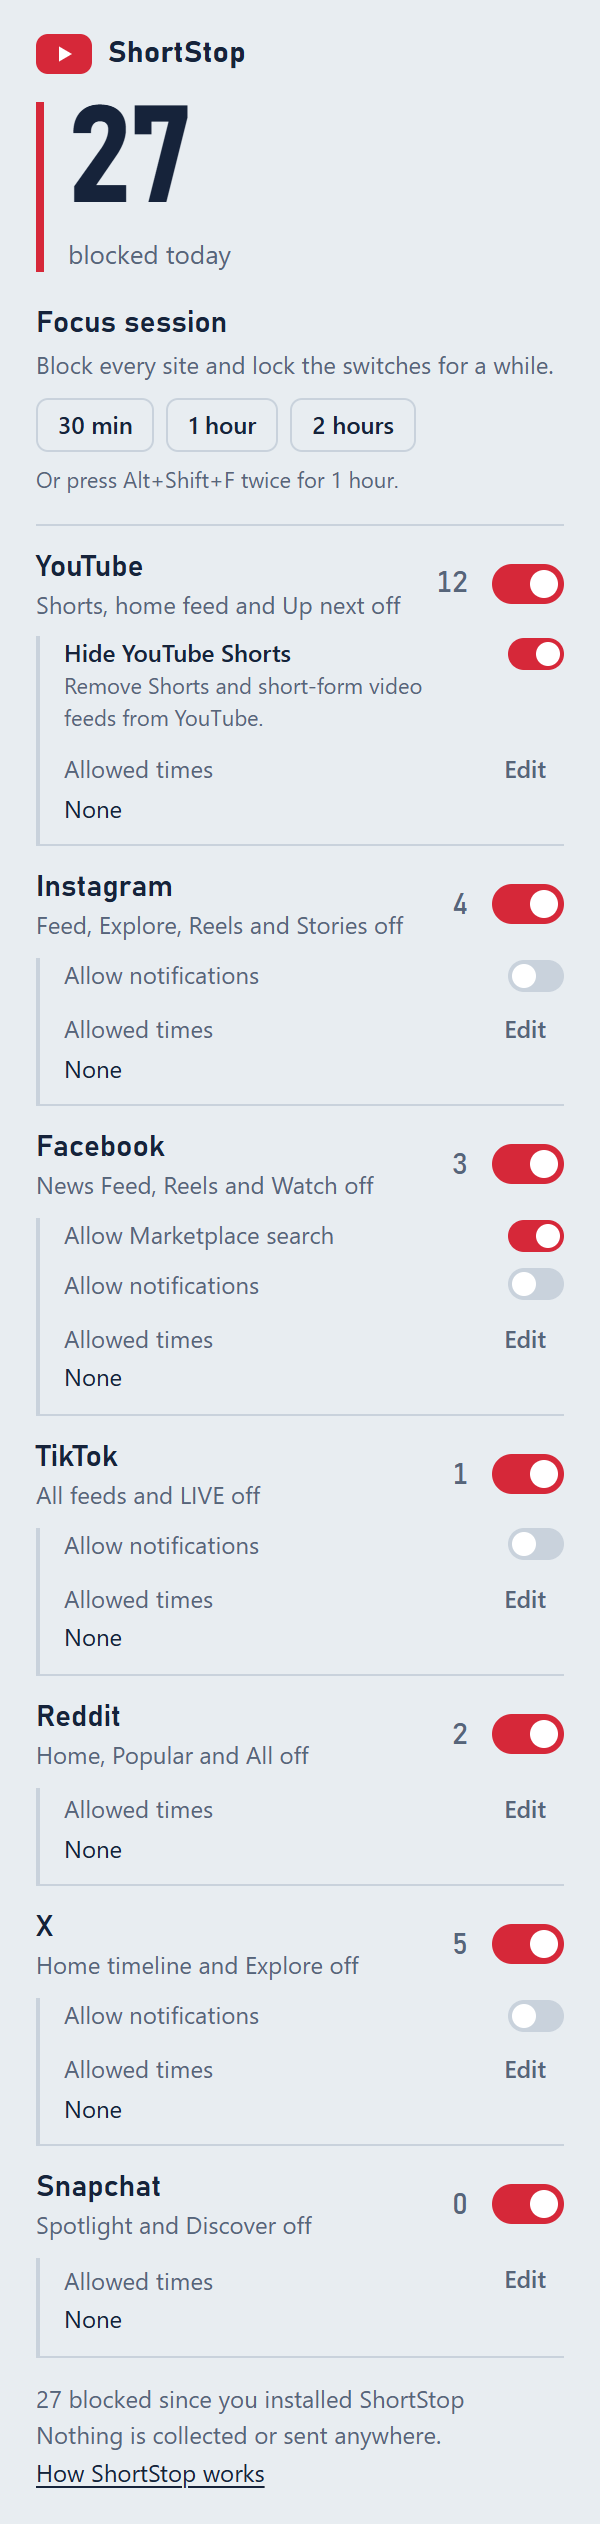
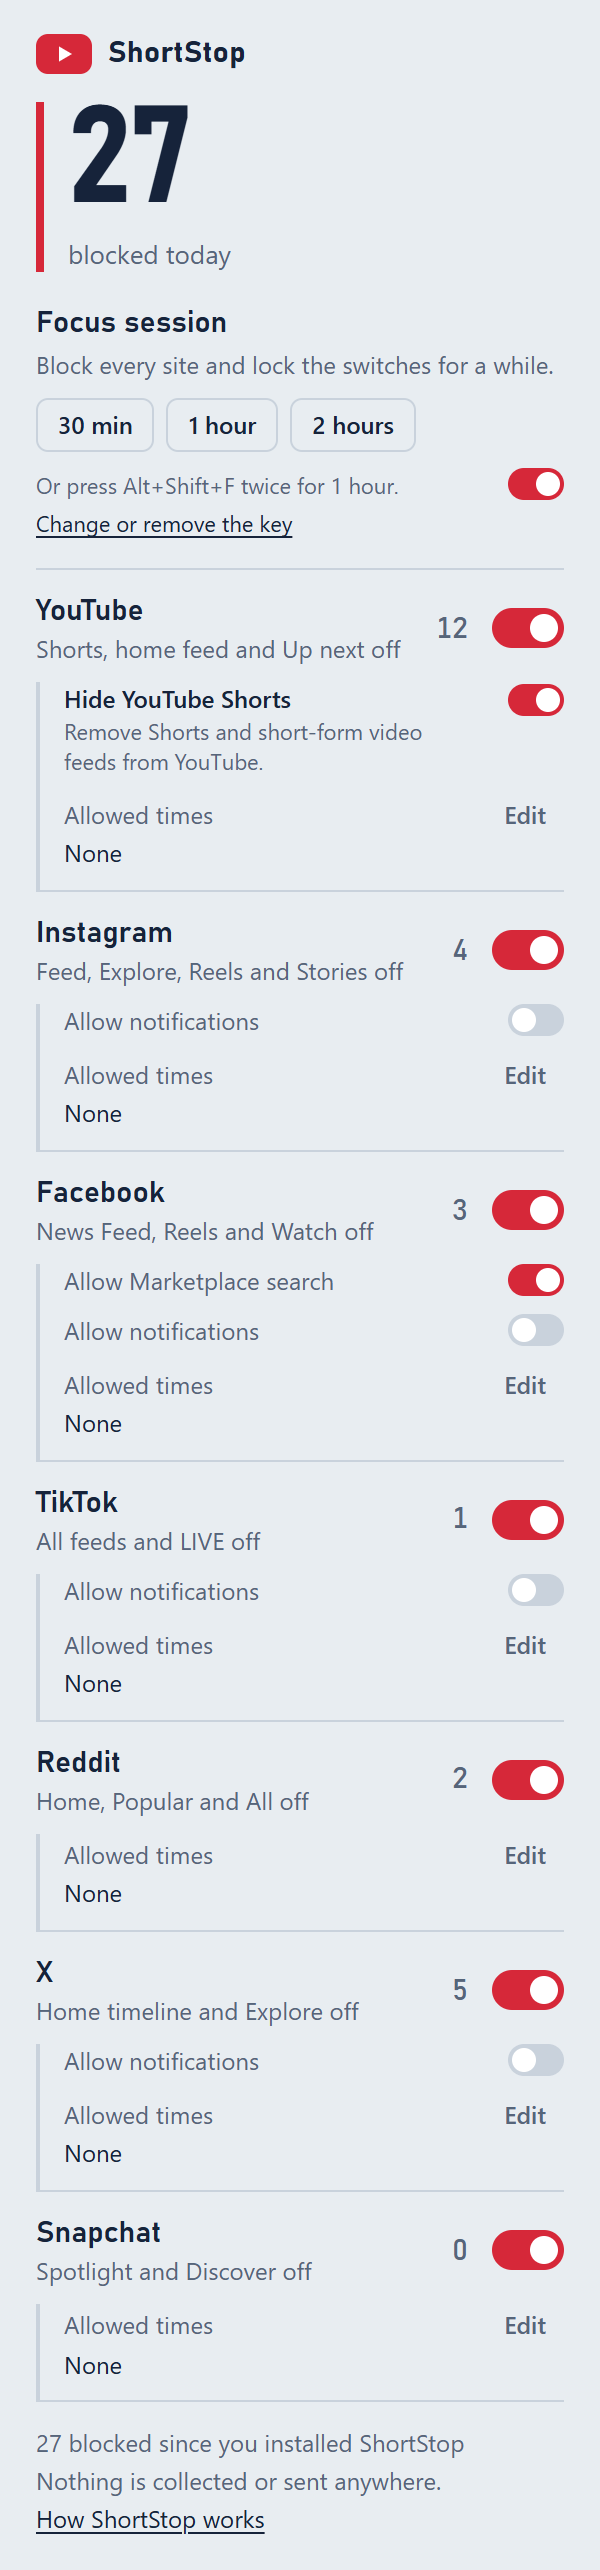
feat: add focus shortcut toggle functionality and update related documentation

diff --git a/tests/fixtures/popup.html b/tests/fixtures/popup.html
@@ -27,6 +27,7 @@
           },
         };
         const listeners = [];
+        const opened = []; // Pages the popup asked the browser to open.
         const copy = (value) => (value === undefined ? undefined : JSON.parse(JSON.stringify(value)));
         const area = (name) => ({
           get(keys) {
@@ -52,6 +53,7 @@
           storage: { sync: area('sync'), local: area('local'), onChanged: { addListener: (fn) => listeners.push(fn) } },
           runtime: {},
           commands: { getAll: () => Promise.resolve([{ name: 'start-focus-session', shortcut: 'Alt+Shift+F' }]) },
+          tabs: { create: (options) => (opened.push(options.url), Promise.resolve({})) },
         };
 
         try {
@@ -259,6 +261,54 @@
             shown($('#focus-hint')) && $('#focus-hint').textContent === 'Or press Alt+Shift+F twice for 1 hour.',
             $('#focus-hint').textContent
           );
+
+          /* ---- The keyboard shortcut: switch it off, or change the key in the browser ---- */
+          const shortcutSwitch = $('#option-focus-shortcut');
+          const shortcutLink = $('#focus-shortcut-link');
+          check('shortcut: the switch is shown, on by default', shown(shortcutSwitch) && shortcutSwitch.checked);
+          check('shortcut: the switch is named after the key', shortcutSwitch.getAttribute('aria-label') === 'Keyboard shortcut Alt+Shift+F');
+          check(
+            'shortcut: offers to change or remove the key in the browser',
+            shown(shortcutLink) && shortcutLink.textContent === 'Change or remove the key',
+            shortcutLink.textContent
+          );
+          shortcutSwitch.click();
+          await step();
+          check('shortcut: switching it off is saved', stores.sync.settings.focusShortcut === false, JSON.stringify(stores.sync.settings.focusShortcut));
+          check(
+            'shortcut: the line says it is off',
+            !shortcutSwitch.checked && $('#focus-hint').textContent === 'The Alt+Shift+F shortcut is off.',
+            $('#focus-hint').textContent
+          );
+          check('shortcut: the focus buttons still work while it is off', shown($('#focus-choices')));
+          shortcutSwitch.click();
+          await step();
+          check(
+            'shortcut: switching it back on is saved',
+            stores.sync.settings.focusShortcut === true && shortcutSwitch.checked && $('#focus-hint').textContent === 'Or press Alt+Shift+F twice for 1 hour.',
+            $('#focus-hint').textContent
+          );
+          shortcutLink.click();
+          await step();
+          check(
+            'shortcut: the link opens the browser shortcut settings',
+            opened.length === 1 && /^(chrome|edge|brave):\/\/extensions\/shortcuts$/.test(opened[0]),
+            JSON.stringify(opened)
+          );
+          const line = (extra) => globalThis.describeShortcut({ known: true, key: 'Alt+Shift+F', enabled: true, hasSettingsPage: true, ...extra });
+          check('shortcut: nothing shows until the browser has answered', globalThis.describeShortcut({ known: false, key: '', enabled: true, hasSettingsPage: true }).hidden === true);
+          check(
+            'shortcut: no key set says so and offers to set one',
+            line({ key: '' }).text === 'No keyboard shortcut is set.' && !line({ key: '' }).showSwitch && line({ key: '' }).link === 'Set a key',
+            JSON.stringify(line({ key: '' }))
+          );
+          check(
+            'shortcut: Firefox gets instructions instead of a link',
+            /Manage Extension Shortcuts/.test(line({ key: '', hasSettingsPage: false }).text) && line({ key: '', hasSettingsPage: false }).link === '' && line({ hasSettingsPage: false }).link === '',
+            JSON.stringify(line({ key: '', hasSettingsPage: false }))
+          );
+          check('shortcut: a custom key is named as the browser reports it', line({ key: 'Ctrl+Shift+K' }).text === 'Or press Ctrl+Shift+K twice for 1 hour.');
+
           $('[data-focus-minutes="60"]').click();
           await step();
           check('focus: picking a length asks first', shown($('#focus-confirm')) && !shown($('#focus-choices')) && focusText().includes('for 1 hour'), focusText());

diff --git a/extension/popup/popup.js b/extension/popup/popup.js
@@ -525,6 +525,39 @@ function tick() {
 
 let focusChoice = 0; // Minutes picked and waiting for "Start", or 0.
 let focusShortcut = ''; // The keyboard shortcut for a 1-hour session, if one is set.
+let shortcutKnown = false; // The browser has told us whether a shortcut is set.
+
+// The browser's own page for changing or removing extension shortcuts. Extensions
+// can't clear a shortcut themselves, so the popup links there. Firefox won't
+// open its own pages for an extension, so it gets instructions instead.
+function shortcutSettingsUrl() {
+  const agent = navigator.userAgent;
+  if (agent.includes('Firefox/')) return '';
+  const scheme = agent.includes('Edg/') ? 'edge' : navigator.brave ? 'brave' : 'chrome';
+  return `${scheme}://extensions/shortcuts`;
+}
+
+// What the shortcut line under the focus buttons shows. Pure, so the test page
+// can try every case: unknown, no key set, key set and on, key set and off.
+function describeShortcut({ known, key, enabled, hasSettingsPage }) {
+  if (!known) return { hidden: true };
+  if (!key) {
+    return {
+      hidden: false,
+      text: hasSettingsPage
+        ? 'No keyboard shortcut is set.'
+        : 'No keyboard shortcut is set. In Add-ons, use the gear, then Manage Extension Shortcuts.',
+      showSwitch: false,
+      link: hasSettingsPage ? 'Set a key' : '',
+    };
+  }
+  return {
+    hidden: false,
+    text: enabled ? `Or press ${key} twice for 1 hour.` : `The ${key} shortcut is off.`,
+    showSwitch: true,
+    link: hasSettingsPage ? 'Change or remove the key' : '',
+  };
+}
 
 function inFocus(now) {
   return (Number(state.settings.focusUntil) || 0) > now;
@@ -564,9 +597,32 @@ function renderFocus(now) {
   setText(document.getElementById('focus-text'), text);
   document.getElementById('focus-choices').hidden = active || Boolean(focusChoice);
   document.getElementById('focus-confirm').hidden = active || !focusChoice;
-  const hint = document.getElementById('focus-hint');
-  hint.hidden = active || Boolean(focusChoice) || !focusShortcut;
-  setText(hint, focusShortcut ? `Or press ${focusShortcut} twice for 1 hour.` : '');
+  renderShortcut(active || Boolean(focusChoice));
+}
+
+function renderShortcut(busy) {
+  const line = describeShortcut({
+    known: shortcutKnown,
+    key: focusShortcut,
+    enabled: state.settings.focusShortcut !== false,
+    hasSettingsPage: Boolean(shortcutSettingsUrl()),
+  });
+  // Out of the way while a session runs or a length is being confirmed.
+  document.getElementById('focus-shortcut').hidden = busy || line.hidden;
+  if (line.hidden) return;
+  setText(document.getElementById('focus-hint'), line.text);
+  const toggle = document.getElementById('option-focus-shortcut');
+  toggle.hidden = !line.showSwitch;
+  toggle.setAttribute('aria-label', `Keyboard shortcut ${focusShortcut}`);
+  const link = document.getElementById('focus-shortcut-link');
+  link.hidden = !line.link;
+  setText(link, line.link);
+}
+
+function openShortcutSettings(event) {
+  event.preventDefault();
+  const url = shortcutSettingsUrl();
+  if (url && chrome.tabs && chrome.tabs.create) chrome.tabs.create({ url }).catch(() => {});
 }
 
 function initFocus() {
@@ -578,6 +634,7 @@ function initFocus() {
       .then((commands) => {
         const command = commands.find((entry) => entry.name === 'start-focus-session');
         focusShortcut = (command && command.shortcut) || '';
+        shortcutKnown = true;
         render();
       })
       .catch(() => {});
@@ -589,6 +646,7 @@ function initFocus() {
       document.getElementById('focus-start').focus();
     });
   }
+  document.getElementById('focus-shortcut-link').addEventListener('click', openShortcutSettings);
   document.getElementById('focus-start').addEventListener('click', () => startFocus(focusChoice));
   document.getElementById('focus-cancel').addEventListener('click', () => {
     focusChoice = 0;

diff --git a/tests/fixtures/background.html b/tests/fixtures/background.html
@@ -88,6 +88,32 @@
           await wait(3300);
           await press('some-other-command');
           check('another command does nothing', !focusUntil() && badge.text === '', badge.text);
+
+          /* ---- Switched off in the popup (the focusShortcut setting) ---- */
+          await press('start-focus-session'); // Arms it: "1h?".
+          check('before switching off: the first press asks "1h?"', badge.text === '1h?' && !focusUntil(), badge.text);
+          stores.sync.settings.focusShortcut = false;
+          await press('start-focus-session');
+          check('switched off: the second press starts nothing', !focusUntil(), String(focusUntil()));
+          await wait(5300); // The "1h?" clears by itself.
+          await press('start-focus-session');
+          await press('start-focus-session');
+          check('switched off: presses show nothing and start nothing', badge.text === '' && !focusUntil(), badge.text);
+          stores.sync.settings.focusUntil = Date.now() + 42 * 60 * 1000;
+          await press('start-focus-session');
+          check('switched off: a press during a session shows nothing either', badge.text === '', badge.text);
+          stores.sync.settings.focusUntil = 0;
+
+          stores.sync.settings.focusShortcut = true;
+          await press('start-focus-session');
+          check(
+            'switched back on: it asks again, and the old "1h?" cannot start a session',
+            badge.text === '1h?' && !focusUntil(),
+            badge.text
+          );
+          await press('start-focus-session');
+          check('switched back on: a second press starts the hour', focusUntil() > Date.now() && badge.text === '60m', badge.text);
+          stores.sync.settings.focusUntil = 0;
         } catch (error) {
           check('background test crashed', false, String(error && error.stack));
         }

diff --git a/extension/background.js b/extension/background.js
@@ -32,6 +32,7 @@ chrome.runtime.onInstalled.addListener(async (details) => {
     facebookMarketplaceSearch: true,
     xNotifications: false,
     youtubeHideShorts: true,
+    focusShortcut: true,
     ...settings,
   };
   for (const platform of PLATFORMS) complete[platform] = settings[platform] !== false;
@@ -44,6 +45,9 @@ chrome.runtime.onInstalled.addListener(async (details) => {
  * start one: the first press arms it and shows "1h?" on the toolbar icon, and
  * a second press within 5 seconds starts a 1-hour session. During a session,
  * a press just shows the minutes left.
+ *
+ * The shortcut can be switched off in the popup (the `focusShortcut` setting,
+ * on by default). While it is off, a press does nothing at all.
  */
 const SHORTCUT_FOCUS_MINUTES = 60;
 const SHORTCUT_CONFIRM_MS = 5000;
@@ -63,6 +67,10 @@ chrome.commands.onCommand.addListener(async (command) => {
   if (command !== 'start-focus-session') return;
   const now = Date.now();
   const { settings = {} } = await chrome.storage.sync.get('settings');
+  if (settings.focusShortcut === false) {
+    shortcutArmedUntil = 0; // A "1h?" left over from before it was switched off can't start anything.
+    return;
+  }
   const until = Number(settings.focusUntil) || 0;
   if (until > now) {
     flashBadge(`${Math.ceil((until - now) / 60000)}m`, BADGE_FOCUS, 3000);

diff --git a/extension/popup/popup.html b/extension/popup/popup.html
@@ -34,7 +34,21 @@
         <button type="button" class="btn btn-primary" id="focus-start">Start</button>
         <button type="button" class="btn btn-quiet" id="focus-cancel">Cancel</button>
       </div>
-      <p class="focus-hint" id="focus-hint" hidden></p>
+      <!-- The keyboard shortcut: what it does, a switch to turn it off, and a way to change or remove the key. -->
+      <div class="focus-shortcut" id="focus-shortcut" hidden>
+        <div class="focus-shortcut-row">
+          <p class="focus-hint" id="focus-hint"></p>
+          <input
+            class="switch switch-small"
+            type="checkbox"
+            role="switch"
+            id="option-focus-shortcut"
+            data-setting="focusShortcut"
+            data-default="true"
+          />
+        </div>
+        <a class="focus-link" id="focus-shortcut-link" href="#" hidden></a>
+      </div>
     </section>
 
     <!-- One row per platform. The switch saves instantly; open tabs update live. -->

diff --git a/extension/popup/popup.css b/extension/popup/popup.css
@@ -141,13 +141,41 @@ body {
 }
 
 .focus-hint {
-  margin: 6px 0 0;
+  margin: 0;
   color: var(--slate);
   font-size: 11px;
 }
 
-.focus-hint[hidden] {
+.focus-shortcut {
+  margin-top: 8px;
+}
+
+.focus-shortcut[hidden] {
   display: none;
+}
+
+.focus-shortcut-row {
+  display: flex;
+  align-items: center;
+  justify-content: space-between;
+  gap: 12px;
+}
+
+.focus-link {
+  display: inline-block;
+  margin-top: 4px;
+  color: var(--ink);
+  font-size: 11px;
+  text-underline-offset: 2px;
+}
+
+.focus-link[hidden] {
+  display: none;
+}
+
+.focus-link:focus-visible {
+  outline: 2px solid var(--focus);
+  outline-offset: 2px;
 }
 
 /* A site's switch is only ever disabled while a focus session locks it. */

diff --git a/extension/welcome/welcome.html b/extension/welcome/welcome.html
@@ -95,7 +95,7 @@
             <strong>Focus sessions.</strong> When one click is too easy, start a focus session at the
             top of the popup: every site is blocked for 30 minutes to 2 hours, and the switches stay
             locked until it ends. Or press <kbd>Alt</kbd>+<kbd>Shift</kbd>+<kbd>F</kbd> twice to start
-            an hour without opening the popup.
+            an hour without opening the popup. You can switch that shortcut off in the popup.
           </li>
           <li>
             <strong>The popup keeps count</strong> of what ShortStop blocked today.

diff --git a/TESTING.md b/TESTING.md
@@ -224,6 +224,15 @@ These selectors haven't been checked on the live site yet, so note anything that
       locked. Wait 5 seconds: it clears. Press it twice quickly: the icon shows **60m** and every
       site is blocked (the popup shows the countdown). Press it again: the icon shows the minutes
       left. At `chrome://extensions/shortcuts`, change the shortcut: the popup's hint follows.
+- [ ] **Turning the shortcut off:** under the focus buttons, the popup shows the key with a
+      switch (on) and **Change or remove the key**. Switch it off: the line says "The Alt+Shift+F
+      shortcut is off.", and pressing the key (twice, with the browser window focused) does nothing:
+      no **1h?**, no session. Switch it on again and it works. Close and reopen the popup: the
+      switch keeps its state.
+- [ ] **Change or remove the key** opens your browser's shortcut settings in a new tab.
+- [ ] At the shortcut settings, remove the key (or set another extension's to Alt+Shift+F). Reopen
+      the popup: it says "No keyboard shortcut is set." and offers **Set a key**, with no switch.
+      In Firefox there's no link, but the popup shows the steps.
 - [ ] When it ends (to save time, run
       `chrome.storage.sync.get('settings', ({settings}) => chrome.storage.sync.set({settings: {...settings, focusUntil: Date.now() + 15000}}))`
       in the popup's DevTools console), the switches unlock by themselves, YouTube is off again
